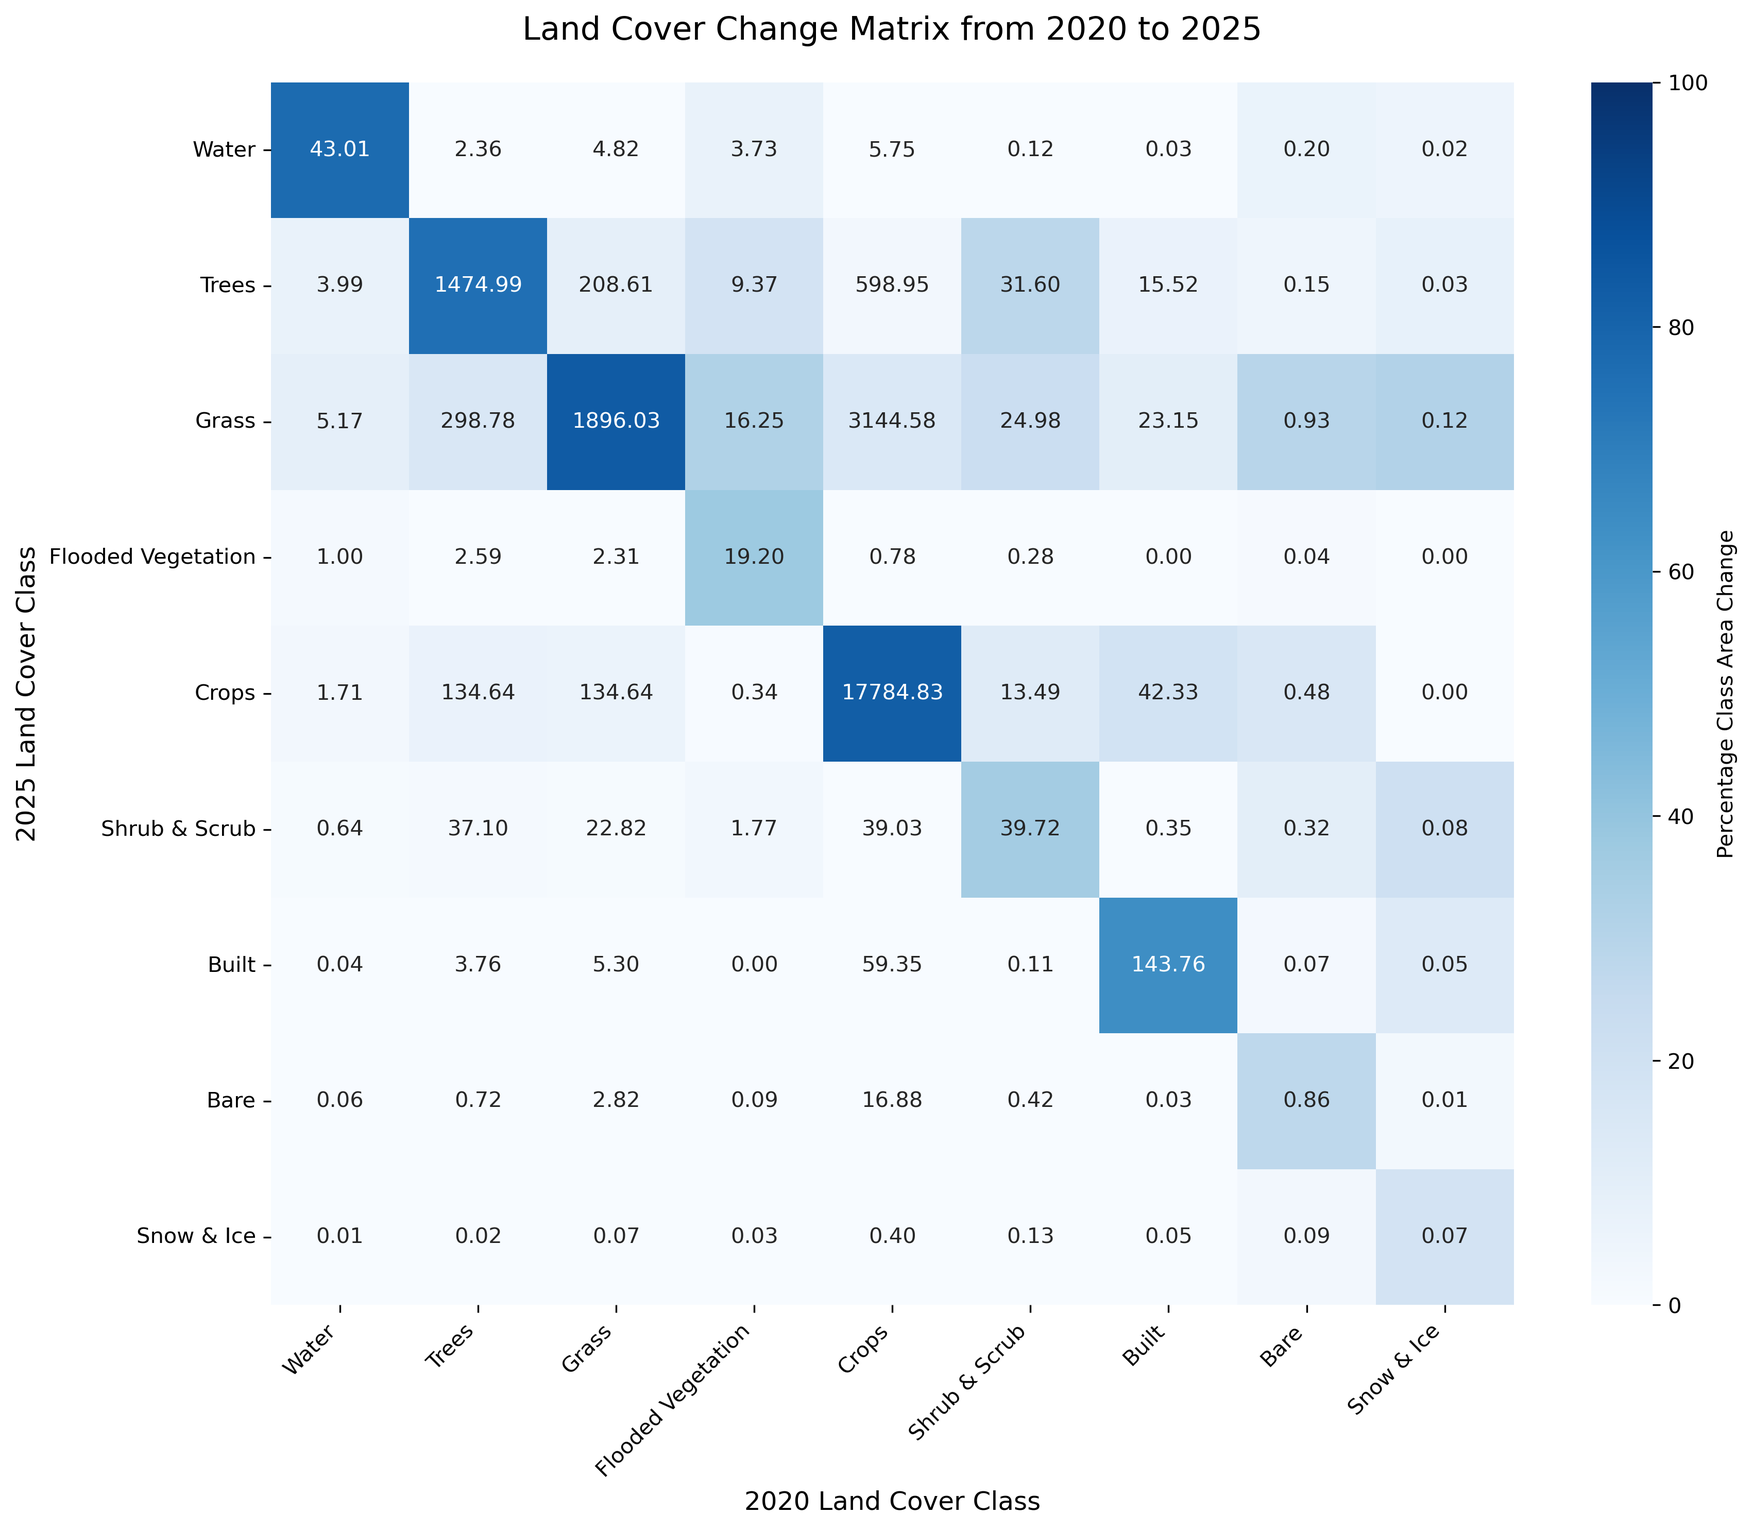
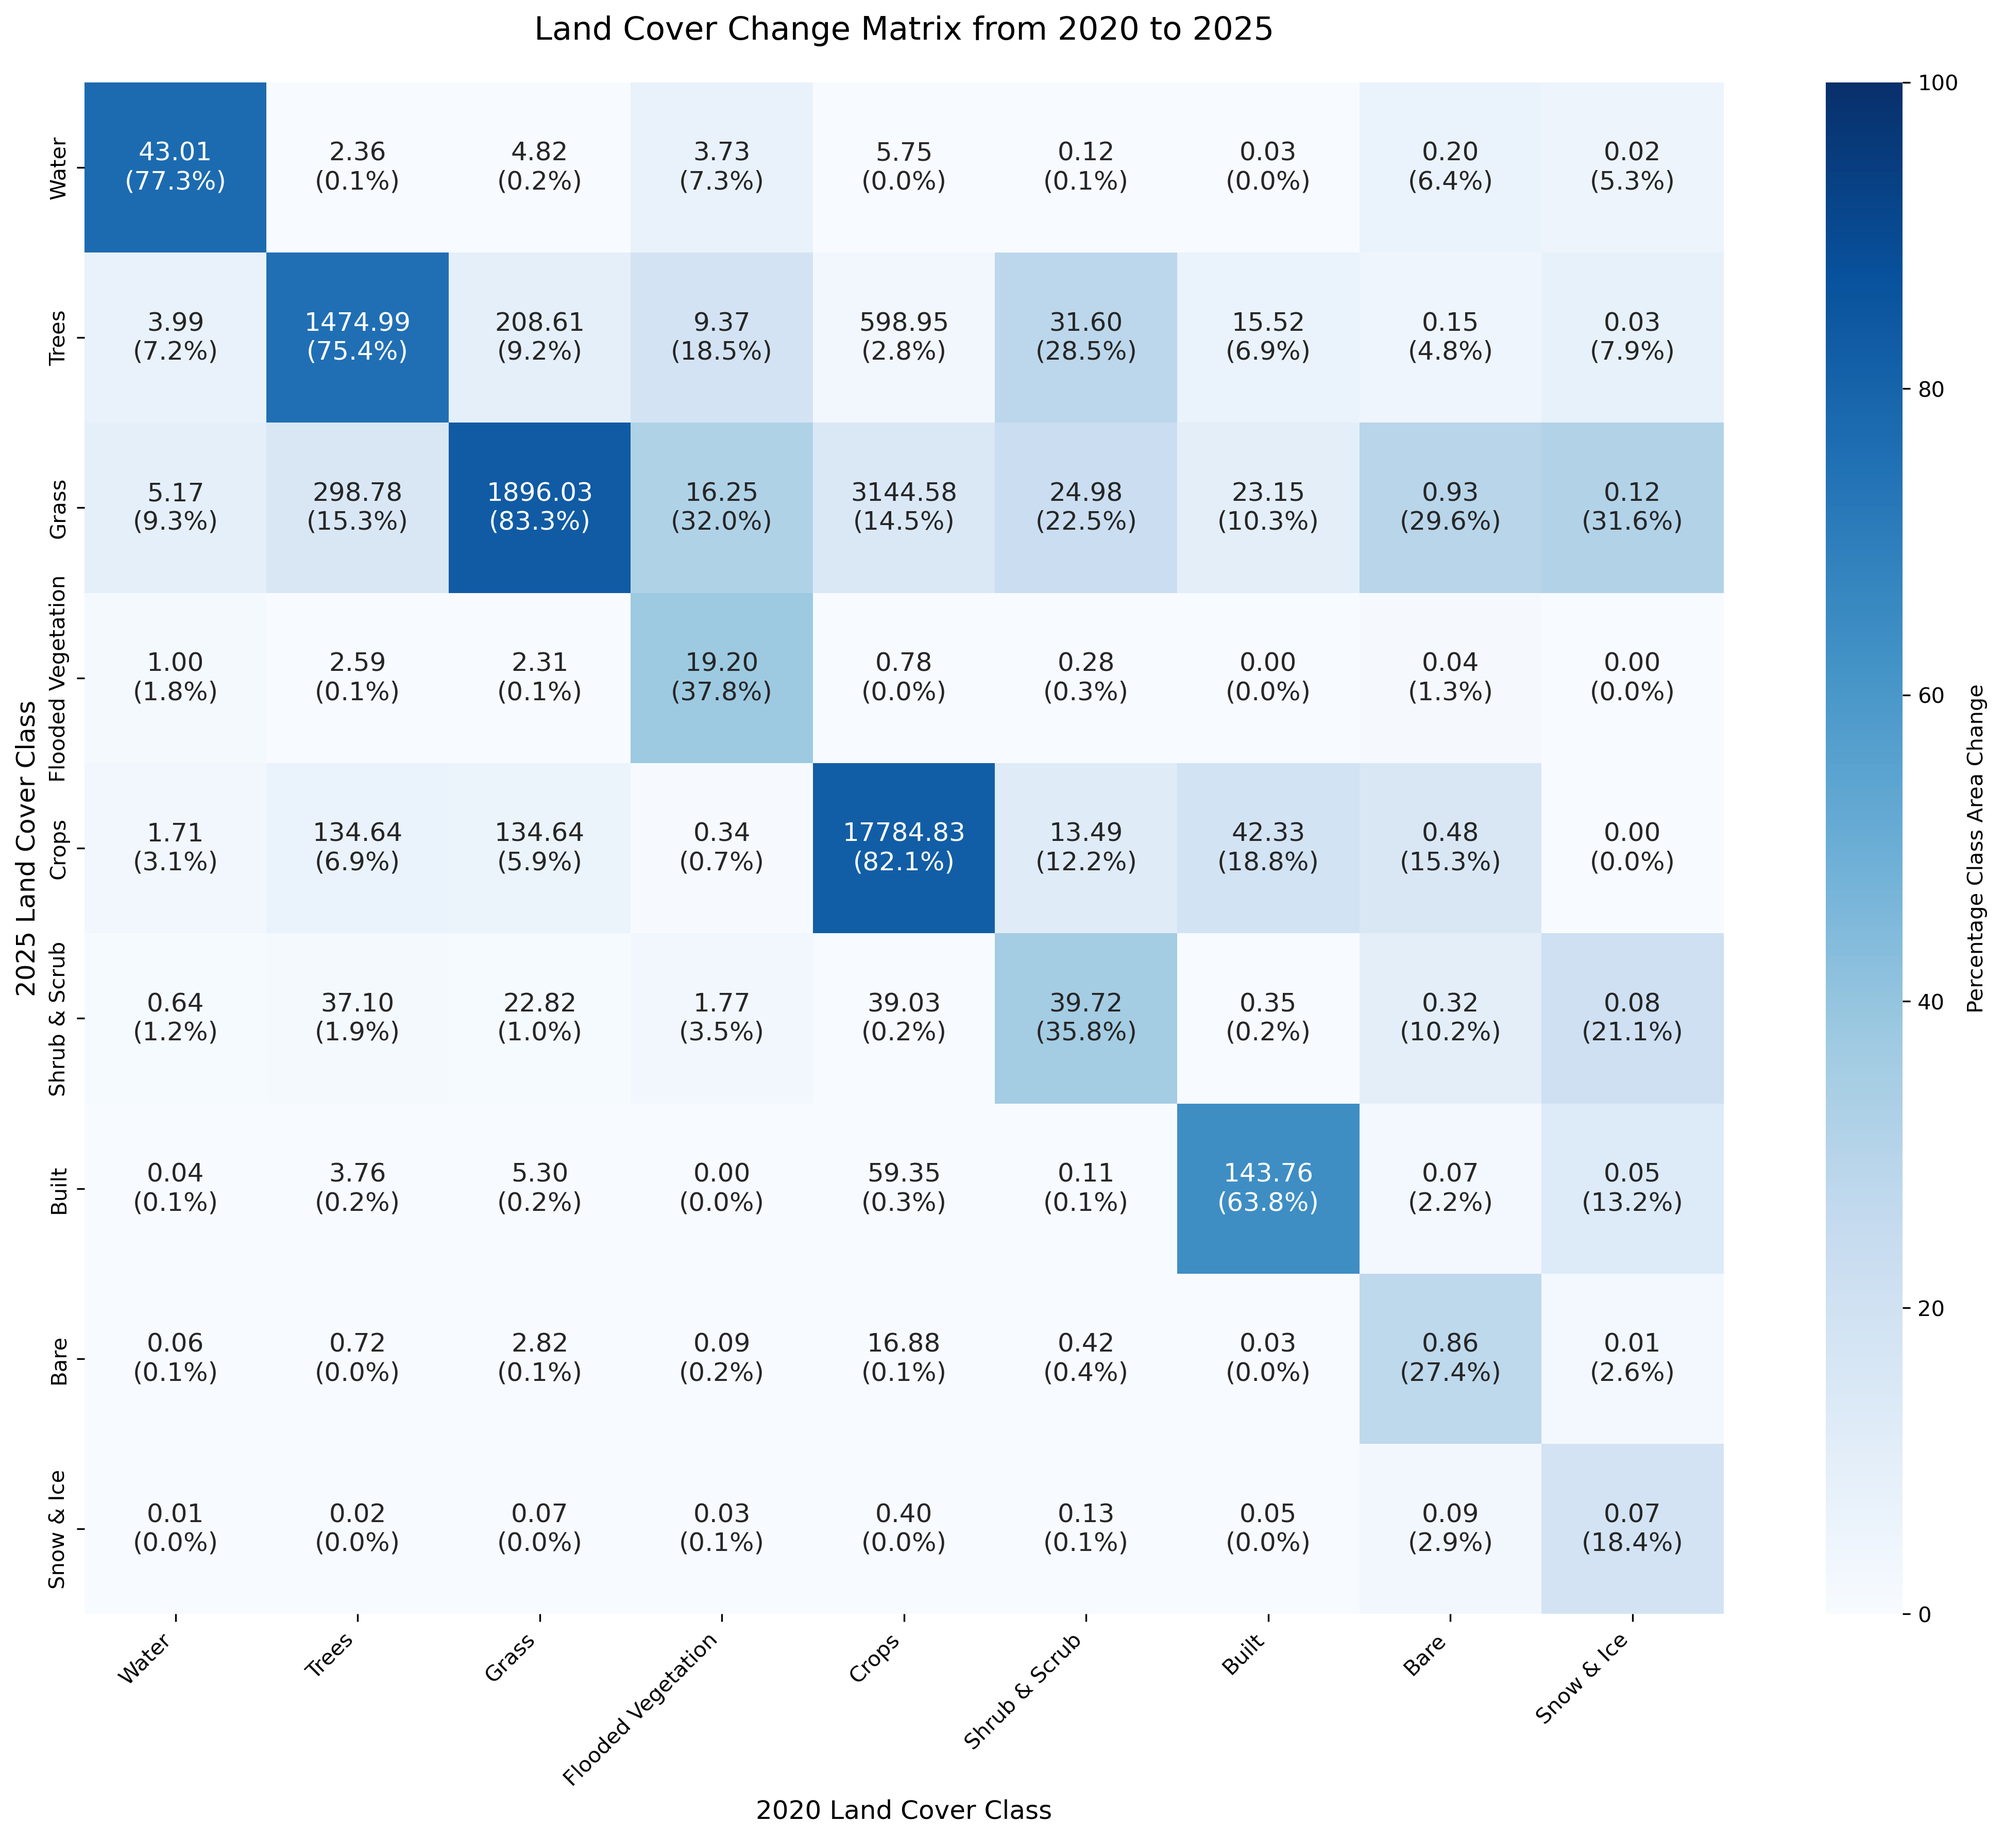
updating plot

diff --git a/plot.py b/plot.py
@@ -1,22 +1,33 @@
 import pandas as pd
 import seaborn as sns
 import matplotlib.pyplot as plt
+import numpy as np
 
 def plot_change_matrix(year):
+    # Load data
     df = pd.read_csv('Results/ChangeMatrix20_25.csv', index_col=0)
 
-    df_percent = pd.DataFrame()
+    # Calculate percentages based on columns (initial year)
     row_sums = df.sum(axis=0)
     df_percent = df.div(row_sums, axis=1) * 100
 
-    plt.figure(figsize=(12, 10))
+    # Create custom labels: "Raw Value \n (Percentage%)"
+    # We use a nested list comprehension to format each cell
+    labels = np.array([
+        [f"{val:.2f}\n({pct:.1f}%)" for val, pct in zip(row_val, row_pct)]
+        for row_val, row_pct in zip(df.values, df_percent.values)
+    ])
+
+    plt.figure(figsize=(14, 12))
     
+    # We pass 'labels' to annot and set fmt to "" since the strings are pre-formatted
     sns.heatmap(df_percent, 
-                annot=df.values,
-                fmt=".2f",
+                annot=labels,
+                fmt="",
                 cmap="Blues",
                 vmin=0.0,
                 vmax=100,
+                annot_kws={'size': 12}, # Adjust font size here to fit both lines
                 cbar_kws={'label': 'Percentage Class Area Change'})
     
     plt.title("Land Cover Change Matrix from 2020 to 2025", fontsize=15, pad=20)
@@ -89,4 +100,52 @@ def plot_classifications_comparison():
     plt.tight_layout()
     plt.savefig('classifications_daa_comparison.png')
 
-plot_change_matrix(21)
+# Your provided color set
+DW_CLASS = {
+    'water': '#419bdf',
+    'trees': '#397d49',
+    'grass': '#88b053',
+    'flooded_vegetation': '#7a87c6',
+    'crops': '#e49635',
+    'shrub_and_scrub': '#dfc35a',
+    'built': '#c4281b',
+    'bare': '#a59b8f',
+    'snow_and_ice': '#b39fe1',
+}
+
+def plot_percentage_stacked_bar_custom():
+    # Load and normalize data to percentages
+    df = pd.read_csv('Results/ClassificationsDAA20_25.csv', index_col=0)
+    df_perc = df.divide(df.sum(axis=1), axis=0) * 100
+    
+    # 2. Sort columns by their total sum across all years (descending)
+    # The first item in this list will be the "biggest" and placed at the bottom.
+    sorted_columns = df_perc.sum().sort_values(ascending=False).index.tolist()
+    df_perc_sorted = df_perc[sorted_columns]
+    
+    # 3. Map colors to the new column order
+    def format_key(name):
+        return name.lower().replace(' & ', '_and_').replace(' ', '_')
+    
+    color_list = [DW_CLASS[format_key(col)] for col in sorted_columns]
+    
+    # 4. Create the plot
+    ax = df_perc_sorted.plot(kind='bar', stacked=True, figsize=(14, 8), color=color_list, width=0.8)
+    
+    # 5. Add text labels
+    for p in ax.patches:
+        h = p.get_height()
+        if h > 2.5:
+            ax.text(p.get_x() + p.get_width()/2, p.get_y() + h/2, f'{h:.1f}%', 
+                    ha='center', va='center', fontsize=9, color='white', fontweight='bold')
+
+    # Formatting and Legend
+    plt.title('Annual Classifications from Dynamic World', fontsize=16)
+    plt.ylabel('Percentage (%)')
+    plt.xticks(rotation=0)
+    plt.legend(title='', bbox_to_anchor=(1.02, 1), loc='upper left')
+    
+    plt.tight_layout()
+    plt.savefig('classifications_daa_comparison_stacked.png')
+
+plot_change_matrix(22)
